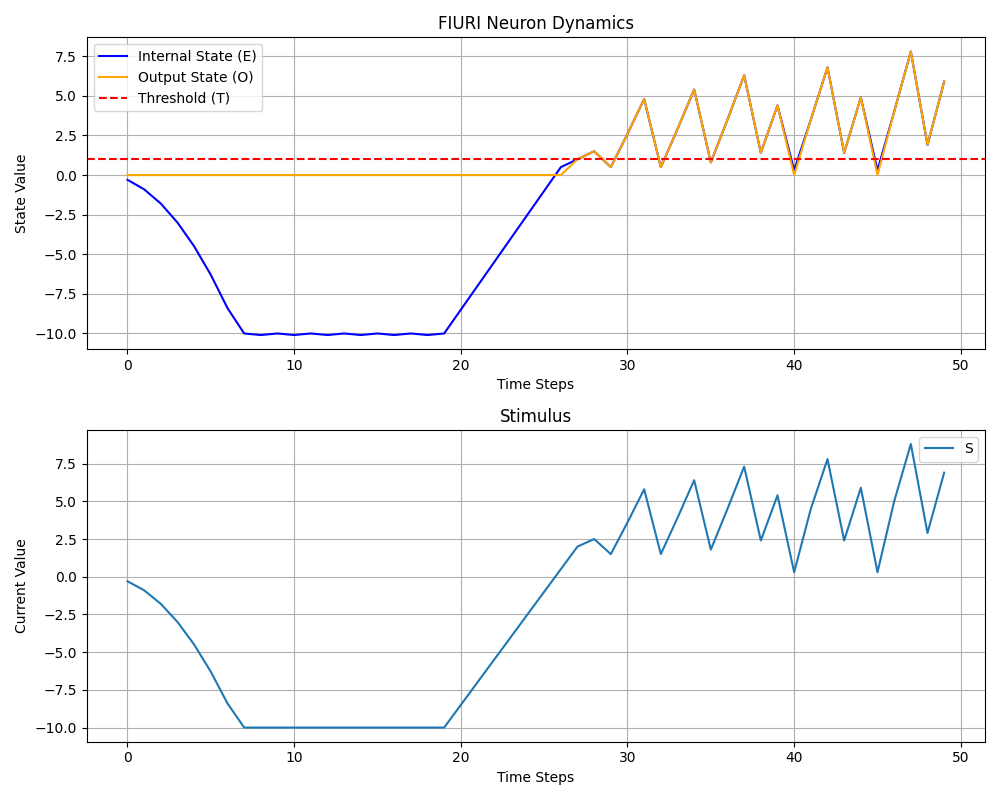
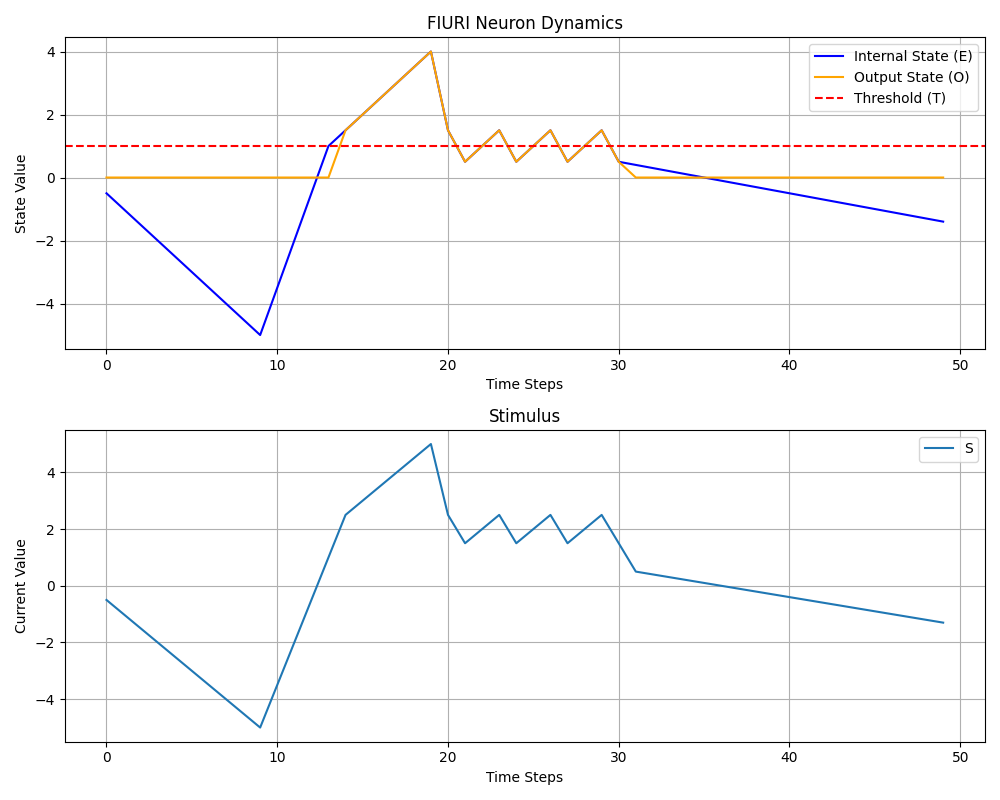
simple test edit

diff --git a/Models/Fiuri/test_neuron.py b/Models/Fiuri/test_neuron.py
@@ -51,22 +51,21 @@ current_trace = []
 for t in range(time_steps):
     print(f"==== Time step {t} ====")
     if t<10:
-        inh_neuron.outputstate=0.5 + t*0.1
-        exc_neuron.outputstate=0.1 - t*0.1
-        gj_neuron.outputstate=0.1 - t*0.1
+        inh_neuron.outputstate=0.5 
+        exc_neuron.outputstate=0.0 
+        gj_neuron.outputstate=0.0 
     elif t<20:
-        inh_neuron.outputstate=0.1 + t*0.05
-        exc_neuron.outputstate=1.5 - t*0.05
-        gj_neuron.outputstate=0.1 - t*0.05
+        inh_neuron.outputstate=0.0
+        exc_neuron.outputstate=1.5 
+        gj_neuron.outputstate=0.0
     elif t<30:
-        inh_neuron.outputstate=0.1
-        exc_neuron.outputstate=0.1
+        inh_neuron.outputstate=0.0
+        exc_neuron.outputstate=0.0
         gj_neuron.outputstate=1.5
     else:
-        inh_neuron.outputstate=0.1 + t*0.1
-        exc_neuron.outputstate=0.1 + t*0.1
-        gj_neuron.outputstate=0.1 + t*0.1
-
+        inh_neuron.outputstate=0.0
+        exc_neuron.outputstate=0.0
+        gj_neuron.outputstate=0.0
 
     curr_stimulus = target_neuron.computeVnext(denditric_inputs)
     current_trace.append(curr_stimulus)
